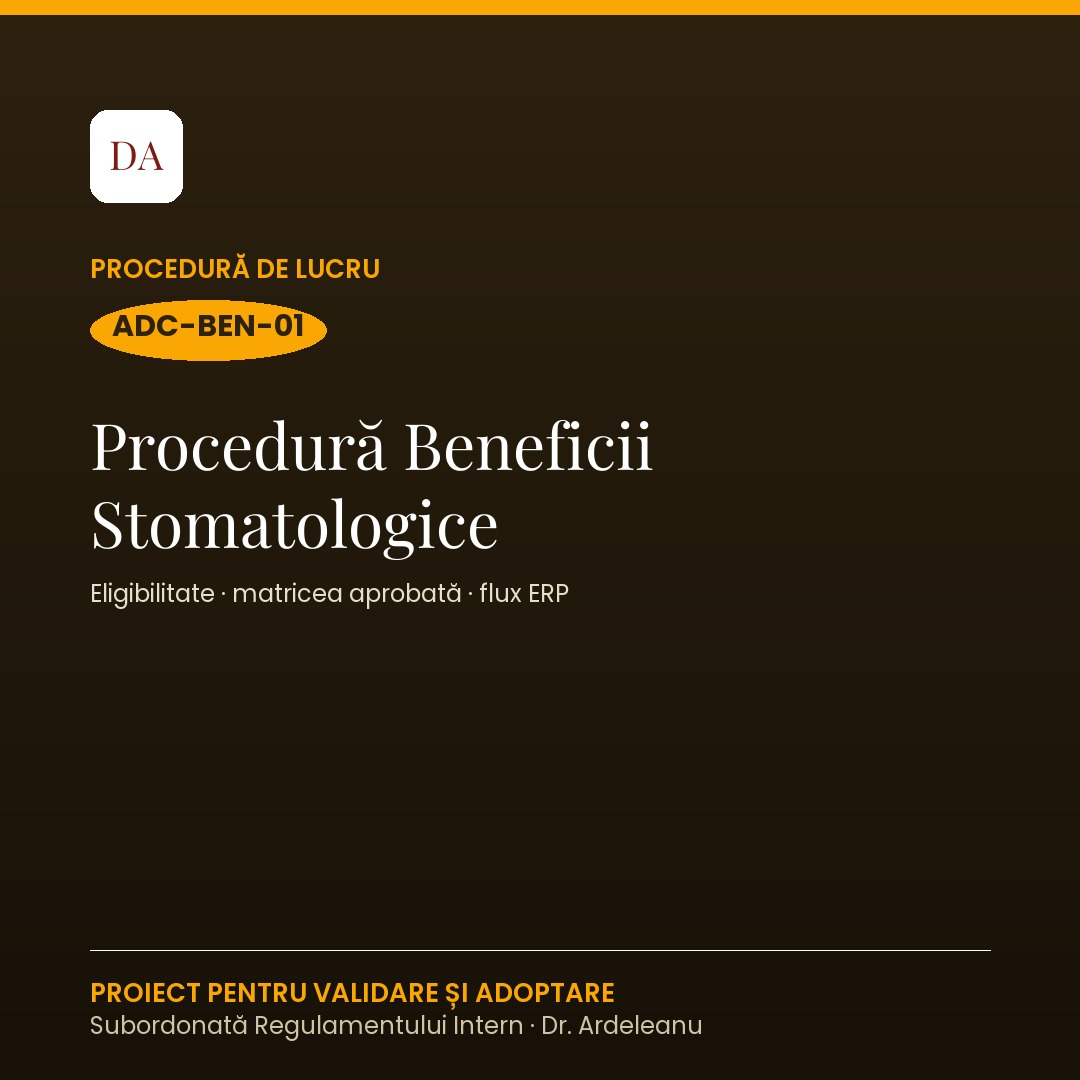
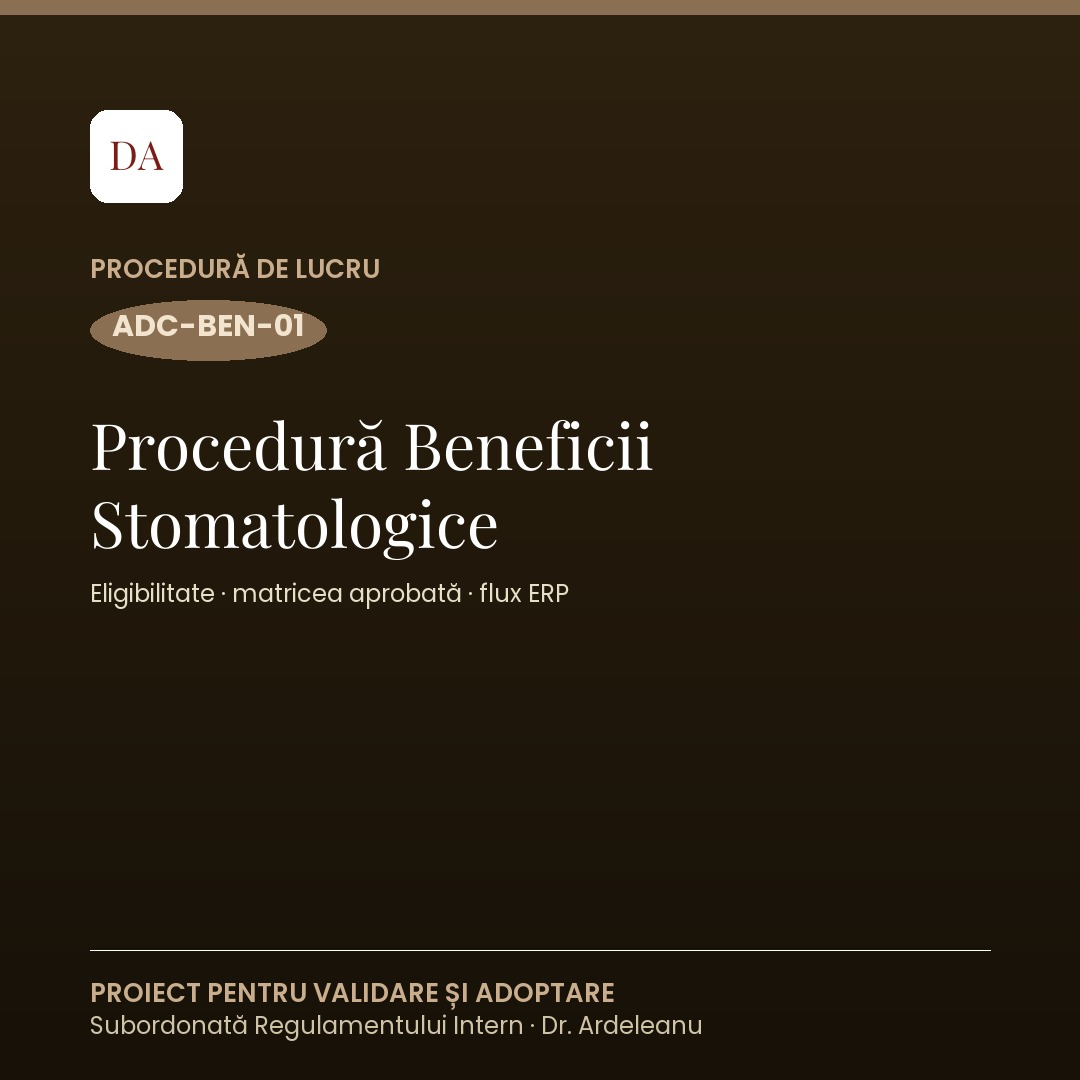
Înlocuiește galbenul-portocaliu strident cu o paletă nude/mai discretă
Cardul „Proceduri de lucru" de pe homepage, hub-ul din proceduri/index.html
și taburile din ADC-BEN-01 foloseau un gradient galben-portocaliu foarte
saturat (#FAA703 → #b97832), greu de citit și inconsistent ca discreție cu
restul paletei brandului. Îl înlocuiește cu un gradient nude/taupe mai
muted (#C9AD8C → #8A6F52), regenerează cele două imagini reprezentative
(og-ben-01.jpg, og-proceduri.jpg) cu aceeași paletă și ajustează accentele
de text (eyebrow, cod procedură, tab activ) pentru contrast pe noul fundal.

Changed region(s): [[0.0, 0.0, 1.0, 0.0306], [0.0917, 0.8861, 0.5806, 0.9472], [0.0917, 0.2139, 0.3667, 0.3361]]

diff --git a/proceduri/index.html b/proceduri/index.html
@@ -147,7 +147,7 @@ a:hover{border-bottom-color:var(--brand-primary)}
   margin:0 0 14px;letter-spacing:-.01em;
   text-wrap:balance;
 }
-.hero h1 em{font-style:italic;color:#b97832;font-weight:500}
+.hero h1 em{font-style:italic;color:#75604A;font-weight:500}
 .hero .subtitle{
   font-size:19px;color:var(--ink-soft);font-weight:300;
   margin:0 0 26px;line-height:1.5;
@@ -180,7 +180,7 @@ a:hover{border-bottom-color:var(--brand-primary)}
 .hero .meta-row dd{
   margin:0;font-size:12px;color:var(--ink);font-weight:500;line-height:1.3;
 }
-.hero .meta-row dd .mono{font-family:'JetBrains Mono',monospace;font-size:11px;color:#b97832}
+.hero .meta-row dd .mono{font-family:'JetBrains Mono',monospace;font-size:11px;color:#75604A}
 
 /* ============ HUB CONTENT ============ */
 .hub-wrap{max-width:1100px;margin:0 auto;padding:38px 28px 90px}
@@ -188,7 +188,7 @@ a:hover{border-bottom-color:var(--brand-primary)}
 /* Protocol index — clickable card grid (reused ca hub de proceduri) */
 .proto-index{
   margin:0 0 32px;
-  background:linear-gradient(180deg,#FAA703 0%,#b97832 100%);
+  background:linear-gradient(180deg,#C9AD8C 0%,#8A6F52 100%);
   border-radius:8px;
   padding:24px 24px 8px;
   color:#fff;
@@ -200,7 +200,7 @@ a:hover{border-bottom-color:var(--brand-primary)}
 }
 .proto-index .pi-eyebrow{
   font-size:10px;letter-spacing:.22em;text-transform:uppercase;
-  color:#2D210F;font-weight:700;
+  color:#F2E4CE;font-weight:700;
 }
 .proto-index h2{
   margin:0;font-family:'Playfair Display',serif;font-weight:700;
@@ -231,7 +231,7 @@ a:hover{border-bottom-color:var(--brand-primary)}
 .proto-card .pc-code{
   font-family:'JetBrains Mono',monospace;
   font-size:11px;letter-spacing:.04em;
-  color:#2D210F;font-weight:700;
+  color:#F2E4CE;font-weight:700;
 }
 .proto-card .pc-name{
   font-size:15px;font-weight:600;line-height:1.3;color:#fff;

diff --git a/proceduri/ADC-BEN-01_Procedura_Beneficii.html b/proceduri/ADC-BEN-01_Procedura_Beneficii.html
@@ -210,10 +210,10 @@ a:hover{border-bottom-color:var(--brand-primary)}
   border-bottom:2px solid transparent;
   transition:color .15s,border-color .15s;
 }
-.proc-tab:hover{color:#b97832;border-bottom-color:var(--rule)}
-.proc-tab.active{color:#b97832;border-bottom-color:#FAA703}
+.proc-tab:hover{color:#75604A;border-bottom-color:var(--rule)}
+.proc-tab.active{color:#75604A;border-bottom-color:#8A6F52}
 .proc-tab .pt-code{font-family:'JetBrains Mono',monospace;font-size:10px;color:var(--ink-mute)}
-.proc-tab.active .pt-code{color:#b97832}
+.proc-tab.active .pt-code{color:#75604A}
 .proc-tab.soon{color:var(--ink-mute);opacity:.5;cursor:default}
 .proc-tab.soon .pt-code{font-style:italic}
 .proc-tab.hub{margin-left:auto;color:var(--brand-primary);border-bottom-color:transparent}

diff --git a/index.html b/index.html
@@ -149,7 +149,7 @@
   .card.card-soon:hover{ transform:none; box-shadow:0 1px 3px rgba(40,30,20,.06); }
   /* culori din brand book Dr. Ardeleanu / Dental Safari — Jungle Green și Safari Gold, mai vii decât gri */
   .card.manager .card-head{ background:linear-gradient(135deg,#168247 0%,#0d5c33 100%); }
-  .card.proceduri .card-head{ background:linear-gradient(135deg,#FAA703 0%,#b97832 100%); }
+  .card.proceduri .card-head{ background:linear-gradient(135deg,#C9AD8C 0%,#8A6F52 100%); }
   .card.card-soon .card-pill.soon{ background:rgba(255,255,255,.16); border-style:dashed; }
   .card.card-soon .cta.soon{
     background:none; border:1.5px dashed var(--line-2); color:var(--muted); cursor:default;
